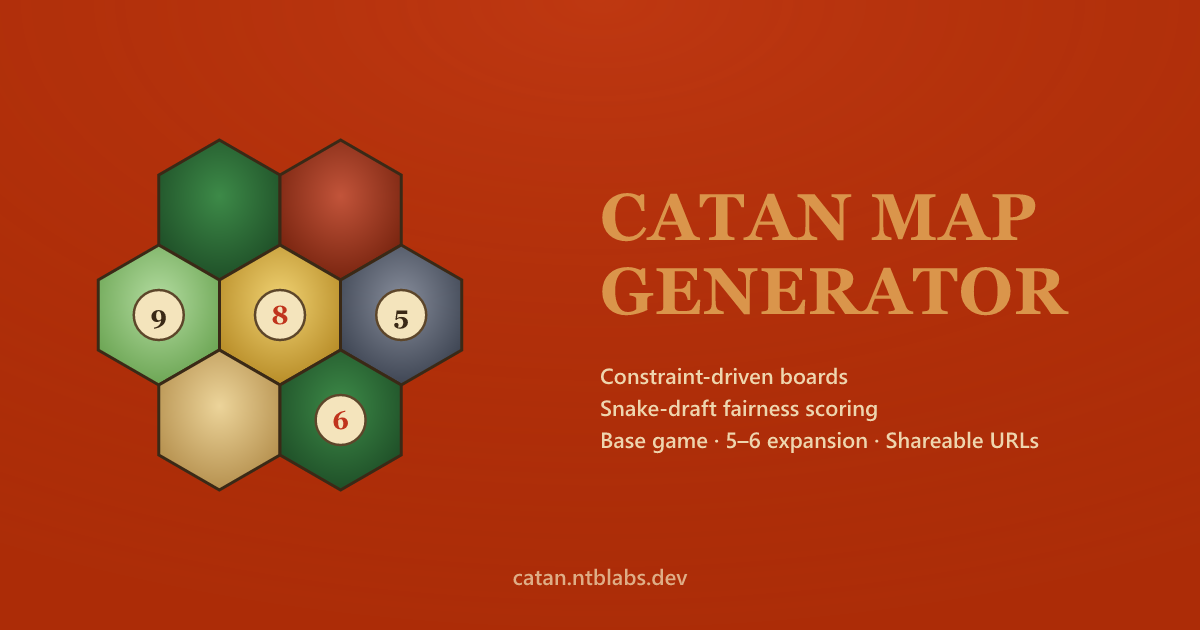
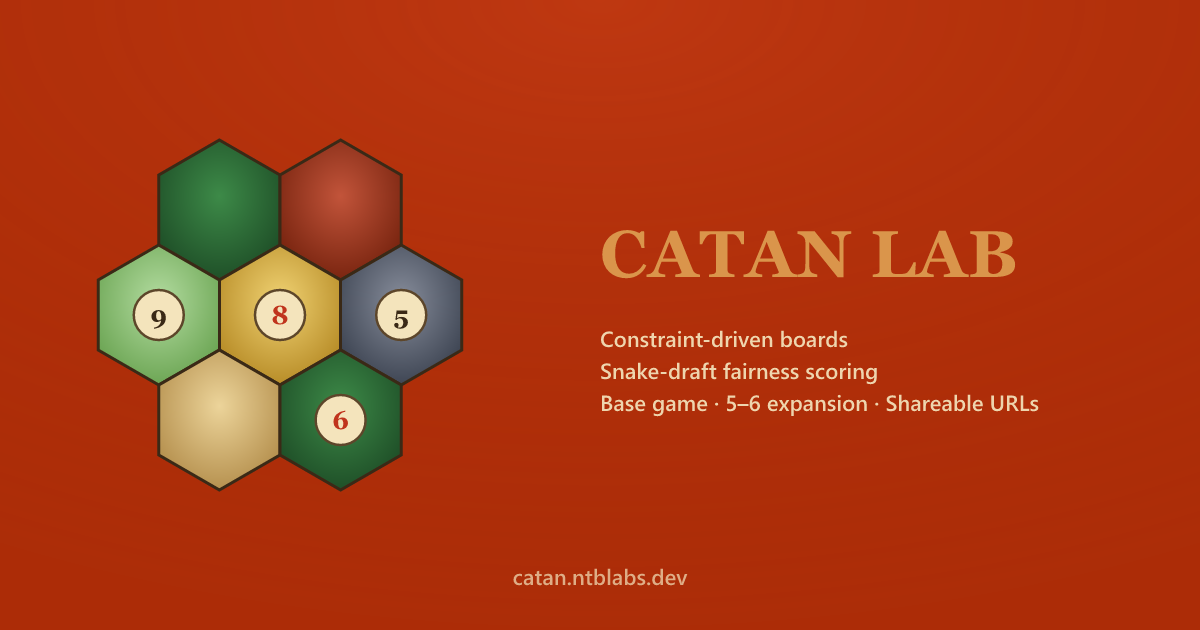
Rename the product to Catan Lab

Changed region(s): [[0.4933, 0.3016, 0.8942, 0.7238]]

diff --git a/index.html b/index.html
@@ -8,7 +8,7 @@
     <meta name="apple-mobile-web-app-capable" content="yes" />
     <meta name="apple-mobile-web-app-status-bar-style" content="black-translucent" />
 
-    <title>Catan Map Generator — fair, constraint-driven boards with shareable links</title>
+    <title>Catan Lab: fair, constraint-driven boards with shareable links</title>
     <meta name="description" content="Generate balanced or challenge-mode Catan boards in seconds. Snake-draft fairness scoring, base game and 5–6 expansion, shareable URLs. Open source." />
     <meta name="keywords" content="Catan, Settlers of Catan, map generator, board game, fair map, snake draft, balanced board, 5-6 expansion, free, online tool, open source" />
     <meta name="author" content="Nathan Thomas-Benke" />
@@ -16,28 +16,28 @@
 
     <!-- Open Graph (Facebook, Discord, LinkedIn, iMessage, Slack, …) -->
     <meta property="og:type" content="website" />
-    <meta property="og:site_name" content="Catan Map Generator" />
-    <meta property="og:title" content="Catan Map Generator — fair, constraint-driven boards" />
+    <meta property="og:site_name" content="Catan Lab" />
+    <meta property="og:title" content="Catan Lab: fair, constraint-driven boards" />
     <meta property="og:description" content="Generate balanced or challenge-mode Catan boards in seconds. Snake-draft fairness scoring, base game and 5–6 expansion, shareable URLs. Open source." />
     <meta property="og:url" content="https://catan.ntblabs.dev/" />
     <meta property="og:image" content="https://catan.ntblabs.dev/og.png" />
     <meta property="og:image:width" content="1200" />
     <meta property="og:image:height" content="630" />
-    <meta property="og:image:alt" content="Catan Map Generator — a cluster of resource hexes with number tokens beside the project title." />
+    <meta property="og:image:alt" content="Catan Lab: a cluster of resource hexes with number tokens beside the project title." />
 
     <!-- Twitter / X large image card -->
     <meta name="twitter:card" content="summary_large_image" />
-    <meta name="twitter:title" content="Catan Map Generator — fair, constraint-driven boards" />
+    <meta name="twitter:title" content="Catan Lab: fair, constraint-driven boards" />
     <meta name="twitter:description" content="Generate balanced or challenge-mode Catan boards. Snake-draft fairness scoring, shareable URLs. Open source." />
     <meta name="twitter:image" content="https://catan.ntblabs.dev/og.png" />
-    <meta name="twitter:image:alt" content="Catan Map Generator preview" />
+    <meta name="twitter:image:alt" content="Catan Lab preview" />
 
     <!-- Schema.org JSON-LD: helps Google recognize this as a WebApplication entry rather than guessing from the page text. -->
     <script type="application/ld+json">
     {
       "@context": "https://schema.org",
       "@type": "WebApplication",
-      "name": "Catan Map Generator",
+      "name": "Catan Lab",
       "url": "https://catan.ntblabs.dev/",
       "applicationCategory": "GameApplication",
       "operatingSystem": "Any (browser)",

diff --git a/src/ui/exportImage.ts b/src/ui/exportImage.ts
@@ -16,7 +16,7 @@
 // Everything is self-contained (no external fonts/images), so the canvas never
 // gets tainted and toBlob() works even on iOS Safari.
 
-const WATERMARK = 'Catan Map Generator';
+const WATERMARK = 'Catan Lab';
 
 // Presentation properties worth carrying over. Deliberately excludes width /
 // height / transform / transform-origin / will-change so the clone's own

diff --git a/src/App.tsx b/src/App.tsx
@@ -22,7 +22,7 @@ export function App() {
   return (
     <div className="app">
       <header className="app__header">
-        <span className="app__title">CATAN MAP GENERATOR</span>
+        <span className="app__title">CATAN LAB</span>
         {seed !== undefined && <span className="app__seed">seed: {seed.toString(36)}</span>}
       </header>
       <Board />

diff --git a/PROJECT_BRIEF.md b/PROJECT_BRIEF.md
@@ -1,4 +1,4 @@
-# PROJECT_BRIEF.md - Catan Map Generator
+# PROJECT_BRIEF.md - Catan Lab
 
 Reconstructed history and current state, assembled 2026-08-22 from git history,
 the code itself, and the surviving project memory files. Written so a planning
@@ -443,6 +443,19 @@ how much downstream work they block.
    Lab". `package.json`, `README.md`, and the in-app header all say "Catan Map
    Generator". The portfolio plan calls it "Catan Lab Generator". Which name is
    the product name, and does it change before or after the hosting move?
+
+   **Answered 2026-08-22.** The product name is **Catan Lab**, singular. Not
+   "Catan Labs", not "Catan Map Generator", not "Catan Lab Generator". It was
+   applied to every user-facing surface: the page title, all Open Graph and
+   Twitter tags, the JSON-LD name, the OG image headline, the in-app header,
+   and the PNG export watermark. The name change came after the hosting move,
+   which was itself resolved the same day (see question 1).
+
+   The repository name does **not** change and stays
+   `NTBLabs/catan-map-generator`. The npm package name in `package.json` stays
+   `catan-map-generator` to match it. Renaming the repo would break the GitHub
+   Pages path that existing share links resolve through, and every link Nathan
+   has already sent out is a permanent URL.
 
 3. **The scenario-toggle finding.** Section 6. Force the toggles off in scenario
    mode, expose a "fast mode", or leave it as documented behavior?

diff --git a/README.md b/README.md
@@ -1,4 +1,4 @@
-# Catan Map Generator
+# Catan Lab
 
 A constraint-driven map generator for Settlers of Catan. Produces balanced boards by default, or harsh "challenge" boards that bend the math in a specific direction (scarcity of a resource, boom-or-bust concentration, low-yield dead zones). Every map is reproducible from its seed and shareable via URL.
 

diff --git a/CLAUDE.md b/CLAUDE.md
@@ -1,4 +1,4 @@
-# CLAUDE.md - Catan Map Generator
+# CLAUDE.md - Catan Lab
 
 Working context for this repo. Read this first, then `PROJECT_BRIEF.md` for the
 reconstructed history, the decisions behind the algorithm, and the open
